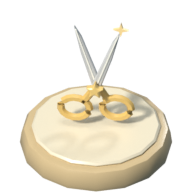
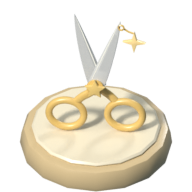
Refine region reward props: tide net, sunseed, star shears models and raw renders

Changed region(s): [[0.2188, 0.0625, 0.875, 0.7188]]

diff --git a/art-src/board-ui/c-popups/src/build_popups.py b/art-src/board-ui/c-popups/src/build_popups.py
@@ -390,100 +390,267 @@ def grow(ob,f,z0=0.19):
     ob.data.transform(Matrix.Translation((0,0,z0))@Matrix.Scale(f,4)@Matrix.Translation((0,0,-z0)))
 def tcoaster(n):
     return [finish(xform(cyl(0.5,0.48,0.16,16),(0,0,0.08)),n+'_d','rimL',0.04,2,40),finish(xform(cyl(0.42,0.42,0.03,16),(0,0,0.17)),n+'_t','tileL1',0.012,1,40)]
-def scallop(r=0.13,sw_='coral'):
-    # 小扇贝：扇形厚片 + 5 道放射棱 + 两只铰合耳
-    prof=[(0,0)]+[(r*math.cos(math.radians(a)),r*math.sin(math.radians(a))) for a in range(20,161,14)]
-    P=[finish(prism(prof,0.035),'sc',sw_,0.01,1)]
-    for a in range(35,150,28):
-        P.append(finish(tube([(0.02*math.cos(math.radians(a)),-0.02,0.02*math.sin(math.radians(a))),(r*0.92*math.cos(math.radians(a)),-0.02,r*0.92*math.sin(math.radians(a)))],0.008,4),'rb',sw_))
-    P.append(finish(xform(box(0.09,0.03,0.035),(0,0,0.0)),'ear',sw_,0.006))
-    return join(P,'scallop',30)
-def tool_tidenet():
-    # 潮汐网 v2：短柄小抄网。木圈口朝上微微前倾，网兜是真镂空的网眼（bmesh wireframe），往下垂成袋；
-    # 兜里一枚珊瑚色扇贝 + 一枚青色海螺从网口探出来；网圈上系一只红白浮漂；短木柄斜插在木托上。
-    P=tcoaster('tn'); R=0.25; cx,cz=-0.03,0.70
-    # 网兜：口在 z=0，往下垂，底部略偏前（重量往前坠）
-    prof=[(R,0.0),(R*0.97,-0.08),(R*0.86,-0.17),(R*0.66,-0.25),(R*0.40,-0.31),(R*0.12,-0.34)]
-    seg=12; bm=bmesh.new(); rings=[]
-    for i,(r,z) in enumerate(prof):
-        sag=-0.10*(i/(len(prof)-1))**1.5
-        rings.append([bm.verts.new((r*math.cos(2*math.pi*k/seg),r*math.sin(2*math.pi*k/seg)+sag,z)) for k in range(seg)])
+# ---- 地区道具 v3 通用小工具：样条、写进同一个 bmesh 的管子、参数曲面、沿方向摆放
+def cr(points,n=6,closed=False):
+    P=[Vector(p) for p in points]; m=len(P); out=[]
+    for i in (range(m) if closed else range(m-1)):
+        p1=P[i]; p2=P[(i+1)%m]
+        p0=P[(i-1)%m] if (closed or i>0) else p1*2-p2
+        p3=P[(i+2)%m] if (closed or i+2<m) else p2*2-p1
+        for s in range(n):
+            t=s/n; t2=t*t; t3=t2*t
+            out.append(0.5*((2*p1)+(p2-p0)*t+(2*p0-5*p1+4*p2-p3)*t2+(3*p1-p0-3*p2+p3)*t3))
+    if not closed: out.append(P[-1])
+    return out
+def tube_into(bm,points,radius,sides=6,closed=False,rfn=None,caps=True,flat=None):
+    pts=[Vector(p) for p in points]; n=len(pts); rings=[]
+    for i,p in enumerate(pts):
+        if closed: t=(pts[(i+1)%n]-pts[(i-1)%n]).normalized()
+        else: t=(pts[min(i+1,n-1)]-pts[max(i-1,0)]).normalized()
+        up=flat if flat is not None else (Vector((0,0,1)) if abs(t.z)<0.9 else Vector((1,0,0)))
+        a=t.cross(up).normalized(); b=t.cross(a).normalized()
+        rr=radius*(rfn(i/(n-1)) if rfn else 1)
+        rings.append([bm.verts.new(p+rr*(math.cos(2*math.pi*k/sides+math.pi/sides)*a+math.sin(2*math.pi*k/sides+math.pi/sides)*b)) for k in range(sides)])
+    for i in range(n if closed else n-1):
+        i2=(i+1)%n
+        for k in range(sides):
+            k2=(k+1)%sides; bm.faces.new((rings[i][k],rings[i][k2],rings[i2][k2],rings[i2][k]))
+    if not closed and caps: bm.faces.new(rings[0][::-1]); bm.faces.new(rings[-1])
+    return bm
+def surf(fn,nu,nv,wrap_v=False):
+    bm=bmesh.new(); G=[[bm.verts.new(fn(i/nu,j/nv)) for j in range(nv+1)] for i in range(nu+1)]
+    for i in range(nu):
+        for j in range(nv): bm.faces.new((G[i][j],G[i+1][j],G[i+1][j+1],G[i][j+1]))
+    bmesh.ops.recalc_face_normals(bm,faces=bm.faces); return bm
+def thicken(bm,th):
+    bmesh.ops.recalc_face_normals(bm,faces=bm.faces)
+    r=bmesh.ops.solidify(bm,geom=list(bm.faces),thickness=th); return bm
+def aim(bm,p,d,roll=0.0):
+    d=Vector(d).normalized(); q=Vector((0,0,1)).rotation_difference(d)
+    bmesh.ops.transform(bm,matrix=Matrix.Translation(p)@q.to_matrix().to_4x4(),verts=bm.verts); return bm
+def mx(ob,M): ob.data.transform(M); return ob
+def Rm(deg,ax): return Matrix.Rotation(math.radians(deg),4,ax)
+def Tm(*v): return Matrix.Translation(v)
+def lathe_n(prof,seg,sw_,bev=0.0,bseg=1,angle=35):
+    bm=bmesh.new(); rings=[]
+    for (r,z) in prof: rings.append([bm.verts.new((r*math.cos(2*math.pi*k/seg),r*math.sin(2*math.pi*k/seg),z)) for k in range(seg)])
     for i in range(len(rings)-1):
         for k in range(seg): k2=(k+1)%seg; bm.faces.new((rings[i][k],rings[i][k2],rings[i+1][k2],rings[i+1][k]))
-    bot=bm.verts.new((0,-0.05,-0.355))
-    for k in range(seg): bm.faces.new((rings[-1][k],rings[-1][(k+1)%seg],bot))
-    bmesh.ops.recalc_face_normals(bm,faces=bm.faces)
-    bmesh.ops.wireframe(bm,faces=list(bm.faces),thickness=0.016,use_replace=True,use_boundary=True,use_even_offset=True)
-    net=finish(bm,'net','cream',0.0)
-    hoop=finish(tube([(R*math.cos(math.radians(a)),R*math.sin(math.radians(a)),0.0) for a in range(0,361,20)],0.028,6,closed=True),'hoop','wood')
-    fl=[finish(xform(ico(0.055,2),(0,0,0),scale=(1,1,1.15)),'fl','red6'),finish(xform(cyl(0.057,0.057,0.03,10),(0,0,0.0)),'flb','plaster',0.0)]
-    for o_ in fl: o_.data.transform(Matrix.Translation((-R*0.70,-R*0.70,0.0)))
-    grp=join([net,hoop]+fl,'tmp_n',30)
-    # 网侧躺在木托上：网口朝前（朝镜头）略仰，网兜往后下方垂到木托上
-    hx,hz=-0.08,0.19+R*0.93
-    grp.data.transform(Matrix.Rotation(math.radians(74),4,'X')); grp.data.transform(Matrix.Rotation(math.radians(-42),4,'Z')); grp.data.transform(Matrix.Translation((hx,-0.06,hz)))
-    sc=scallop(0.12,'coral'); sc.data.transform(Matrix.Rotation(math.radians(-18),4,'X')); sc.data.transform(Matrix.Rotation(math.radians(10),4,'Y')); sc.data.transform(Matrix.Rotation(math.radians(-30),4,'Z')); sc.data.transform(Matrix.Translation((hx-0.01,0.02,hz-0.09)))
-    cone=lathe([(0.0,0.0),(0.05,0.02),(0.06,0.06),(0.045,0.11),(0.025,0.16),(0.0,0.20)],8,'teal2',0.0)
-    cone.data.transform(Matrix.Rotation(math.radians(-60),4,'Y')); cone.data.transform(Matrix.Translation((hx+0.05,0.07,hz-0.16)))
-    # 短木柄：从网圈右侧往右后方斜躺到木托上，末端一颗圆把手
-    p0=Vector((hx+R*0.70,-0.06-R*0.62,hz-0.06)); p1=Vector((0.42,-0.16,0.24))
-    hd=finish(tube([tuple(p0),tuple(p0.lerp(p1,0.5)+Vector((0,0,0.01))),tuple(p1)],0.032,6),'handle','darkwood')
-    cap=finish(xform(ico(0.048,1),tuple(p1+Vector((0.02,0.015,0.0)))),'knob','acornl')
-    grp=join([grp,sc,cone],'tmp_n2',30)
-    return join(P+[grp,hd,cap],'tool_tidenet',35)
-def tool_sunseed():
-    # 日光籽 v2：一颗饱满的葵花籽（尖头泪滴形，深浅相间的纵纹），顶上冒出一根弯芽和两片子叶；
-    # 背后立一枚小太阳（金色圆盘 + 一圈三角光芒），一眼读成「太阳 + 种子」。
-    P=tcoaster('ss')
-    # 背后的太阳
-    sun=[finish(xform(cyl(0.21,0.21,0.04,16),(0,0,0),[('X',90)]),'disc','sun',0.012,1)]
-    for k in range(12):
-        a=math.radians(30*k); ry=prism([(-0.045,0.0),(0.045,0.0),(0.0,0.11)],0.03); xform(ry,(0,0,0),[('Y',-math.degrees(a)+90)]); xform(ry,(0.25*math.cos(a),0,0.25*math.sin(a)))
-        sun.append(finish(ry,'ray','gold',0.004))
-    sg=join(sun,'tmp_sun',30); sg.data.transform(Matrix.Translation((0.0,0.16,0.70)))
-    # 种子：泪滴 lathe，压扁成杏仁形
-    prof=[(0.0,0.0),(0.04,0.04),(0.09,0.12),(0.13,0.22),(0.14,0.30),(0.12,0.36),(0.07,0.395),(0.0,0.41)]
-    seed=lathe(prof,10,'ink',0.0); seed.data.transform(Matrix.Scale(1.0,4)); seed.data.transform(Matrix.Diagonal((1.0,0.62,1.0,1.0)))
-    st=[]
-    for xo in (-0.07,0.0,0.07):
-        pts=[]
-        for t in range(0,9):
-            z=0.05+0.33*t/8
-            for (r0,z0),(r1,z1) in zip(prof,prof[1:]):
-                if z0<=z<=z1: rr=(r0+(r1-r0)*(z-z0)/(z1-z0))*1.0; break
-            x=xo*(rr/0.14); y=-0.62*math.sqrt(max(0,rr*rr-x*x))-0.006
-            pts.append((x,y,z))
-        st.append(finish(tube(pts,0.011,4),'stripe','cream'))
-    sd=join([seed]+st,'tmp_seed',30); sd.data.transform(Matrix.Rotation(math.radians(-12),4,'Z')); sd.data.transform(Matrix.Scale(1.18,4)); sd.data.transform(Matrix.Rotation(math.radians(8),4,'Y')); sd.data.transform(Matrix.Translation((0.0,-0.02,0.19)))
-    peg=finish(xform(cyl(0.20,0.24,0.06,12),(0,-0.0,0.21),scale=(1,0.8,1)),'soil','floor',0.02,1)
-    # 芽 + 子叶
-    tx_,tz_=0.48*math.sin(math.radians(8)),0.19+0.48*math.cos(math.radians(8))
-    sp=finish(tube([(tx_,-0.03,tz_-0.02),(tx_-0.01,-0.04,tz_+0.08),(tx_+0.03,-0.05,tz_+0.15),(tx_+0.08,-0.05,tz_+0.17)],0.018,5),'sprout','leafl')
-    lv=[]
-    for sx,ang in ((-1,25),(1,-15)):
-        lf=prism([(0,0),(sx*0.06,0.035),(sx*0.14,0.03),(sx*0.17,0.0),(sx*0.11,-0.025),(sx*0.05,-0.02)] if sx>0 else [(0,0),(sx*0.05,-0.02),(sx*0.11,-0.025),(sx*0.17,0.0),(sx*0.14,0.03),(sx*0.06,0.035)],0.022)
-        xform(lf,(0,0,0),[('Y',ang)]); xform(lf,(tx_+0.07,-0.05,tz_+0.17)); lv.append(finish(lf,'leaf','leaf',0.006,1))
-    return join(P+[sg,sd,peg,sp]+lv,'tool_sunseed',35)
-def tool_starshears():
-    # 星剪 v2：一把正面摆放、张开成 X 的剪刀：两片长刃（浅灰金属 + 刃口亮线）向上张开，
-    # 过轴心延伸到下面两只大金色指环；轴心是一颗金星螺丝，一片刃尖上挂一颗小星光。立在木托的短木桩上。
-    P=tcoaster('sh'); px,pz=0.0,0.50; S=[]
+    bmesh.ops.remove_doubles(bm,verts=bm.verts,dist=1e-5); bmesh.ops.recalc_face_normals(bm,faces=bm.faces)
+    return finish(bm,'lathe',sw_,bev,bseg,angle)
+def rest(parts,z):
+    lo=min((o.matrix_world@v.co).z for o in parts for v in o.data.vertices)
+    for o in parts: o.data.transform(Matrix.Translation((0,0,z-lo)))
+def scallop(r=0.12,sw_='coral',rib='orange'):
+    # 扇贝 v3：圆弧扇形壳（约 150°），6 道放射棱在壳面上真有起伏，壳缘是波浪边，壳体有厚度；
+    # 铰合线两侧各一只三角小耳，棱上一条浅色细线，铰点深色
+    nr=7; nv=42; a0,a1=2,178
+    def f(u,v):
+        ridge=0.5+0.5*math.cos(2*math.pi*nr*v); a=math.radians(a0+(a1-a0)*v)
+        rho=r*u*(1-0.075*(1-ridge)*u**3)
+        y=-(0.052*math.sin(0.5*math.pi*u)+0.009*ridge*u)+0.030*(abs(v-0.5)*2)**2*u
+        return (rho*math.cos(a),y,rho*math.sin(a))
+    P=[finish(thicken(surf(f,6,nv),0.020),'sc',sw_,0.003,1,40)]
+    cb=bmesh.new(); nu=6
+    for i in range(nu):
+        for j in range(nv):
+            if i<1: continue
+            rm=sum(0.5+0.5*math.cos(2*math.pi*nr*(j+dj)/nv) for dj in (0,1))/2
+            if rm<0.62: continue
+            q=[cb.verts.new((lambda p:(p[0],p[1]-0.0014,p[2]))(f((i+di)/nu,(j+dj)/nv))) for di,dj in ((0,0),(1,0),(1,1),(0,1))]
+            cb.faces.new(q)
+    bmesh.ops.recalc_face_normals(cb,faces=cb.faces); bmesh.ops.remove_doubles(cb,verts=cb.verts,dist=1e-6)
+    P.append(finish(cb,'crest',rib,0.0))
     for sx in (-1,1):
-        a=math.radians(19)*sx; dx,dz=math.sin(a),math.cos(a)
-        L=0.46; w0=0.06
-        bl=prism([(-w0*0.5,0.0),(w0*0.5,0.0),(w0*0.42,L*0.55),(0.006,L),(-w0*0.25,L*0.8)] if sx>0 else [(-w0*0.5,0.0),(w0*0.5,0.0),(w0*0.25,L*0.8),(-0.006,L),(-w0*0.42,L*0.55)],0.03)
-        xform(bl,(0,0,0),[('Y',math.degrees(a))]); xform(bl,(px,-0.02*sx,pz)); S.append(finish(bl,'blade','grey',0.006,1))
-        edge=finish(tube([(px+dx*0.04-sx*0.0,-0.02*sx-0.017,pz+dz*0.04),(px+dx*(L*0.95),-0.02*sx-0.017,pz+dz*(L*0.95))],0.006,4),'edge','white')
-        S.append(edge)
-        # 柄 + 指环（在轴心另一侧，同一直线）
-        hx,hz=px-dx*0.18-sx*0.075,pz-dz*0.18
-        S.append(finish(tube([(px,-0.02*sx,pz),(px-dx*0.08-sx*0.03,-0.02*sx,pz-dz*0.09),(hx+sx*0.05,-0.02*sx,hz+0.05)],0.026,6),'shank','gold2'))
-        ring=[(hx+0.095*math.cos(math.radians(t)),-0.02*sx,hz+0.075*math.sin(math.radians(t))) for t in range(0,361,24)]
-        S.append(finish(tube(ring,0.026,6,closed=True),'ring','gold2'))
-    st=prism(star_profile(5,0.065,0.028),0.05); S.append(finish(xform(st,(px,-0.06,pz)),'pivot','gold',0.008,1))
-    sp=prism(star_profile(4,0.05,0.016),0.02); S.append(finish(xform(sp,(px+math.sin(math.radians(19))*0.50,-0.05,pz+math.cos(math.radians(19))*0.50)),'spark','lamp',0.0))
-    sh=join(S,'tmp_s',30); piv=Vector((0,0,0.38))
-    sh.data.transform(Matrix.Translation(piv)@Matrix.Rotation(math.radians(-8),4,'Z')@Matrix.Rotation(math.radians(-6),4,'X')@Matrix.Translation(-piv))
+        P.append(finish(xform(prism([(0,0.0),(sx*0.105,0.010),(sx*0.098,0.036),(sx*0.012,0.040)],0.018),(0,-0.008,0.0)),'ear',sw_,0.004,1))
+    P.append(finish(xform(box(0.026,0.016,0.020),(0,-0.030,0.012)),'hinge','darkwood',0.004))
+    return join(P,'scallop',35)
+def conch(sc=1.0):
+    # 海螺 v3：塔形螺壳（尖顶朝上，圈层一节一节鼓出来）+ 一条贴着壳面盘绕的浅色螺棱，壳口朝外，奶白厚唇 + 暖橙内壁
+    def env(s): return 0.092*(s**0.75)*(1-0.26*max(0.0,(s-0.78)/0.22)**1.6)
+    def rr(s,k=0.0): return env(s)*(1+0.13*s*math.cos(2*math.pi*2.6*s))+k
+    ns=34; prof=[(rr(i/ns),0.17*(1-i/ns)) for i in range(ns+1)]
+    body=lathe_n(prof,18,'teal2',0.0)
+    sp=[]; 
+    for i in range(0,41):
+        s=0.10+0.88*i/40; ang=2*math.pi*2.6*s+0.5; r_=rr(s,0.0035)
+        sp.append((r_*math.cos(ang),r_*math.sin(ang),0.17*(1-s)))
+    rib=finish(tube_into(bmesh.new(),sp,0.0095,5,rfn=lambda t:0.45+0.55*math.sin(math.pi*min(1,t*1.4+0.1))**0.6),'sprib','teal3')
+    R0=rr(1.0); mouth=finish(tube_into(bmesh.new(),[(R0*0.98*math.cos(a),R0*0.98*math.sin(a),0.0) for a in [2*math.pi*k/18 for k in range(18)]],0.011,6,closed=True),'lip','plaster')
+    inner=finish(lathe_bm([(0.0,-0.030),(R0*0.55,-0.020),(R0*0.92,0.0),(0.0,0.0)],18),'mouth','orange',0.0)
+    ob=join([body,rib,mouth,inner],'conch_j',35); ob.data.transform(Matrix.Scale(sc,4)); return ob
+def lathe_bm(prof,seg):
+    bm=bmesh.new(); rings=[]
+    for (r,z) in prof: rings.append([bm.verts.new((r*math.cos(2*math.pi*k/seg),r*math.sin(2*math.pi*k/seg),z)) for k in range(seg)])
+    for i in range(len(rings)-1):
+        for k in range(seg): k2=(k+1)%seg; bm.faces.new((rings[i][k],rings[i][k2],rings[i+1][k2],rings[i+1][k]))
+    bmesh.ops.remove_doubles(bm,verts=bm.verts,dist=1e-5); bmesh.ops.recalc_face_normals(bm,faces=bm.faces); return bm
+def floatball(c,r=0.058):
+    # 浮漂 v3：圆滚的红白浮球（上红下白，16 段 × 8 圈），顶上白色小颈 + 深木小环
+    def half(a0,a1,sw_):
+        prof=[(r*math.sin(math.radians(a)),r*1.18*math.cos(math.radians(a))) for a in [a0+(a1-a0)*i/8 for i in range(9)]]
+        return finish(lathe_bm(prof,16),'fb',sw_,0.0)
+    top=half(0,90,'red'); bot=half(90,180,'plaster')
+    neck=finish(lathe_bm([(0.0,r*1.10),(0.019,r*1.10),(0.021,r*1.30),(0.014,r*1.42),(0.0,r*1.42)],12),'neck','plaster',0.0)
+    eye=finish(tube_into(bmesh.new(),[(0.016*math.cos(a),0.0,r*1.46+0.016*math.sin(a)) for a in [2*math.pi*k/12 for k in range(12)]],0.0045,5,closed=True),'eye','darkwood')
+    pin=finish(lathe_bm([(0.0,-r*1.14),(0.012,-r*1.14),(0.015,-r*1.22),(0.0,-r*1.22)],10),'pin','darkwood',0.0)
+    ob=join([top,bot,neck,eye,pin],'floatball',35); ob.data.transform(Matrix.Translation(c)); return ob
+def tool_tidenet():
+    # 潮汐网 v3：造型不变（短柄小抄网侧躺在木托上，网口朝镜头，网兜往右后方垂下），全部加细：
+    # 网圈改成 40 段圆环；网兜是 18 股×2 向的菱形网眼（细线 + 交点小结），收口处一个绳结，网兜压在木托上不穿底；
+    # 兜里一枚有放射棱的扇贝和一枚螺旋海螺；浮漂是红白圆球，细绳系在网圈上；柄带铁箍，末端圆把手，倒角。
+    FL=0.188; P=tcoaster('tn'); R=0.285; HR=0.023; hx=-0.08; hz=FL+R*0.961+HR+0.002
+    M=Matrix.Translation((hx,-0.06,hz))@Rm(-42,'Z')@Rm(74,'X')
+    N=18; D=0.40; tw=1.40; ns=18
+    def bagpt(t,phi):
+        r=R*max(0.0,1-t**2.3)**0.55; p=M@Vector((r*math.cos(phi),r*math.sin(phi)-0.10*t**1.5,-D*t)); p.z=max(p.z,FL+0.005); return p
+    nb=bmesh.new()
+    for k in range(N):
+        for sg in (1,-1):
+            tube_into(nb,cr([bagpt(i/ns,2*math.pi*k/N+sg*tw*i/ns) for i in range(ns+1)],2),0.0042,4,caps=False)
+    net=finish(nb,'net','acornl',0.0)
+    kb=bmesh.new(); rows=int(N*tw/math.pi)
+    for m in range(1,rows+1):
+        t=math.pi*m/(N*tw)
+        for k in range(N):
+            bmesh.ops.create_icosphere(kb,subdivisions=1,radius=0.0068,matrix=Matrix.Translation(bagpt(t,2*math.pi*k/N+tw*t)))
+    knots=finish(kb,'knots','acornl',0.0)
+    ap=bagpt(1.0,0.0); apx=finish(xform(ico(0.022,2),tuple(ap),scale=(1,1,1.3)),'apex','darkwood',0.0)
+    hoop=finish(tube_into(bmesh.new(),[(R*math.cos(a),R*math.sin(a),0.0) for a in [2*math.pi*k/40 for k in range(40)]],HR,10,closed=True),'hoop','wood'); mx(hoop,M)
+    # 兜里的扇贝（斜靠着，铰口朝下）和海螺（躺着，壳口朝镜头），都落在木托面上
+    sc=scallop(0.15,'coral'); mx(sc,Tm(hx-0.085,0.035,0.0)@Rm(-14,'Z')@Rm(8,'Y')@Rm(-52,'X')); rest([sc],FL+0.002)
+    cn=conch(1.25); mx(cn,Tm(hx+0.115,-0.01,0.0)@Rm(14,'Z')@Rm(80,'Y')@Rm(34,'Z')); rest([cn],FL+0.006)
+    # 浮漂：系在网圈左下，立在木托上，细绳拴在圈上
+    a_f=math.radians(212); hp=M@Vector((R*math.cos(a_f),R*math.sin(a_f),0.0))
+    fc=Vector((hp.x-0.075,hp.y-0.035,FL+0.062*1.22)); fb=floatball(tuple(fc),0.062)
+    eye=fc+Vector((0,0,0.062*1.46))
+    cord=finish(tube_into(bmesh.new(),cr([tuple(eye+Vector((0,0,0.012))),tuple(eye+Vector((0.02,0.0,0.045))),tuple(hp.lerp(eye,0.3)+Vector((0,0,0.02))),tuple(hp)],4),0.0045,5),'cord','darkwood')
+    knot=finish(xform(ico(0.017,1),tuple(hp)),'cknot','darkwood')
+    # 短柄：从网圈右前下方出来，铁箍 + 深木柄身（微弯，贴着木托）+ 圆把手
+    ah=math.radians(-20); p0=M@Vector((R*math.cos(ah),R*math.sin(ah),0.0)); p3=Vector((0.395,-0.17,FL+0.05))
+    p1=p0+(p0-Vector((hx,-0.06,hz))).normalized()*0.07; p2=Vector((0.28,-0.21,FL+0.03))
+    hp_=cr([tuple(p0),tuple(p1),tuple(p2),tuple(p3)],8)
+    hd=finish(tube_into(bmesh.new(),hp_,0.027,10,rfn=lambda t:0.92+0.12*t),'handle','darkwood',0.006,2)
+    d0=(Vector(hp_[2])-p0).normalized(); fer=finish(aim(lathe_bm([(0.0,-0.02),(0.036,-0.02),(0.036,0.03),(0.0,0.03)],12),p0+d0*0.02,d0),'ferrule','wood',0.006,2)
+    d1=(p3-Vector(hp_[-3])).normalized(); grip=finish(xform(uvs(0.05,14,9),tuple(p3+d1*0.022)),'grip','acornl')
+    return join(P+[net,knots,apx,hoop,sc,cn,fb,cord,knot,hd,fer,grip],'tool_tidenet',35)
+def cotyledon(L=0.17,W=0.052,sw_='leaf',rib='leafl'):
+    # 子叶 v3：卵圆叶片（尖头），中脉处凹成一道浅沟、叶缘微微上翻、叶尖略往上卷；中脉上贴一根浅色细脉；叶片有厚度
+    def f(u,v):
+        w=(v-0.5)*2; wd=W*math.sin(math.pi*u**0.72)**0.85
+        return (L*u,w*wd,0.011*w*w*(0.4+u)+0.030*u**2.2)
+    P=[finish(thicken(surf(f,10,6),0.009),'lf',sw_,0.002,1,40)]
+    P.append(finish(tube_into(bmesh.new(),[(L*u,0,0.0035+0.030*u**2.2) for u in (0.0,0.15,0.3,0.45,0.6,0.75,0.88)],0.0048,4,rfn=lambda t:1.0-0.55*t),'mid',rib))
+    return join(P,'cotyledon',35)
+def mound():
+    # 小土堆：圆顶，顶上一圈浅浅的环形凹口把籽尖围住，边缘略不规则；两粒小石子
+    rnd=random.Random(11)
+    prof=[(0.0,0.292),(0.045,0.296),(0.085,0.300),(0.125,0.286),(0.175,0.256),(0.225,0.218),(0.262,0.190),(0.270,0.184),(0.0,0.180)]
+    bm=lathe_bm([(r*0.84,z) for r,z in prof],20)
+    for v in bm.verts:
+        if v.co.z>0.19: a=math.atan2(v.co.y,v.co.x); k=1+0.035*math.sin(3*a+0.7)+0.02*math.sin(5*a); v.co.x*=k; v.co.y*=k; v.co.z+=0.008*math.sin(4*a+1.1)*min(1,math.hypot(v.co.x,v.co.y)/0.2)
+    me=finish(bm,'mound','floor3',0.0)
+    pb=[finish(xform(ico(0.026,1),(0.14,-0.11,0.205),scale=(1,0.9,0.6)),'pb','tan',0.0),finish(xform(ico(0.017,1),(-0.16,-0.09,0.200),scale=(1,1,0.65)),'pb','w5a',0.0)]
+    return join([me]+pb,'mound_j',40)
+def tool_sunseed():
+    # 日光籽 v3：造型不变（深色葵花籽尖头朝下插在小土堆里，顶上弯芽 + 两片子叶，背后一枚金色小太阳），加细：
+    # 籽是 24 段泪滴旋转体（压扁成杏仁），白纹沿壳面按经线走、两头收细；子叶带中脉、略上翻；
+    # 太阳是圆润的厚圆盘 + 金边 + 16 根等长细光芒，立在一根小木桩上。
+    FL=0.188; P=tcoaster('ss')
+    # --- 太阳
+    sun=[finish(xform(lathe_bm([(0.0,-0.020),(0.212,-0.020),(0.226,-0.012),(0.230,0.0),(0.226,0.012),(0.210,0.024),(0.180,0.030),(0.0,0.030)],40),(0,0,0),[('X',90)]),'disc','sun',0.0),
+         finish(xform(tube_into(bmesh.new(),[(0.150*math.cos(a),-0.029,0.150*math.sin(a)) for a in [2*math.pi*k/48 for k in range(48)]],0.0065,6,closed=True,flat=Vector((0,1,0))),(0,0,0)),'ring2','gold'),
+         finish(xform(tube_into(bmesh.new(),[(0.222*math.cos(a),0.0,0.222*math.sin(a)) for a in [2*math.pi*k/48 for k in range(48)]],0.011,6,closed=True,flat=Vector((0,1,0))),(0,0,0)),'rim','gold')]
+    for k in range(16):
+        a=math.radians(22.5*k); ry=prism([(-0.028,0.0),(0.028,0.0),(0.0,0.118)],0.024); xform(ry,(0,0,0),[('Y',90-math.degrees(a))]); xform(ry,(0.222*math.cos(a),0.0,0.222*math.sin(a)))
+        sun.append(finish(ry,'ray','gold',0.005,1))
+    sg=join(sun,'tmp_sun',30); sg.data.transform(Matrix.Translation((0.0,0.16,0.70)))
+    stake=finish(xform(cyl(0.013,0.016,0.36,8),(0.0,0.16,0.36)),'stake','darkwood',0.004)
+    # --- 籽：泪滴形旋转体（尖头朝下），压扁；白纹沿经线
+    Hh=0.41; Rmax=0.122
+    def fr(s): return (s**1.05)*((1-s)**0.55)/0.3566*Rmax
+    prof=[(fr(s),Hh*s) for s in [i/26 for i in range(27)]]
+    prof=[(max(r,0.0),z) for r,z in prof]
+    prof[0]=(0.0,0.0); prof[-1]=(0.0,Hh)
+    seed=lathe_n(prof,24,'ink',0.0); seed.data.transform(Matrix.Diagonal((1.0,0.62,1.0,1.0)))
+    st=[]
+    for dl in (-42,-21,0,21,42):
+        d_=math.radians(dl); pts=[]
+        for i in range(25):
+            s=0.17+0.72*i/24; r_=fr(s)+0.0025
+            pts.append((r_*math.sin(d_),-0.62*r_*math.cos(d_),Hh*s))
+        st.append(finish(tube_into(bmesh.new(),pts,0.0085,4,rfn=lambda t:max(0.04,math.sin(math.pi*t)**0.7)),'stripe','white'))
+    sd=join([seed]+st,'tmp_seed',35)
+    Ms=Matrix.Translation((0.0,-0.02,0.19))@Rm(8,'Y')@Matrix.Scale(1.18,4)@Rm(-12,'Z'); sd.data.transform(Ms)
+    top=Ms@Vector((0,0,Hh))
+    # --- 芽 + 子叶
+    tip=Vector((top.x+0.045,top.y-0.02,top.z+0.205))
+    sp=finish(tube_into(bmesh.new(),cr([(top.x,top.y,top.z-0.025),(top.x-0.004,top.y-0.008,top.z+0.045),(top.x+0.012,top.y-0.016,top.z+0.125),tuple(tip)],5),0.017,8,rfn=lambda t:1.0-0.35*t),'sprout','leafl')
+    bud=finish(xform(ico(0.021,1),tuple(tip)),'bud','leafl',0.0)
+    lvR=cotyledon(); mx(lvR,Tm(*tip)@Rm(-8,'Z')@Rm(-18,'Y')@Rm(-6,'X'))
+    lvL=cotyledon(0.16); mx(lvL,Tm(*tip)@Rm(8,'Z')@Rm(24,'Y')@Rm(180,'Z')@Rm(6,'X'))
+    return join(P+[sg,stake,sd,mound(),sp,bud,lvR,lvL],'tool_sunseed',35)
+def ftube(path,y0,rw,rd,sides=12,rfn=None):
+    # 扁管：沿 XZ 平面里的路径走，截面是椭圆（面内半宽 rw、厚度方向半厚 rd），用来做和刃同厚的剪柄
+    bm=bmesh.new(); pts=[Vector(p) for p in path]; n=len(pts); rings=[]
+    for i,p in enumerate(pts):
+        t=(pts[min(i+1,n-1)]-pts[max(i-1,0)]).normalized(); nn=Vector((-t.z,0,t.x)); k_=rfn(i/(n-1)) if rfn else 1.0
+        rings.append([bm.verts.new(p+Vector((0,y0,0))+rw*k_*math.cos(2*math.pi*k/sides)*nn+rd*math.sin(2*math.pi*k/sides)*Vector((0,1,0))) for k in range(sides)])
+    for i in range(n-1):
+        for k in range(sides): k2=(k+1)%sides; bm.faces.new((rings[i][k],rings[i][k2],rings[i+1][k2],rings[i+1][k]))
+    bm.faces.new(rings[0][::-1]); bm.faces.new(rings[-1]); bmesh.ops.recalc_face_normals(bm,faces=bm.faces); return bm
+def shear_blade(L,sx,z0=-0.03):
+    # 剪刀刃 v3：刃背厚、往刃口一侧磨出斜面（刃口只剩 0.004 厚），两侧都有斜面；整片刃向刃尖收窄、收薄；
+    # 返回 (刃体, 刃口亮线)：亮线是贴在正面斜面上的细条，长度跟着斜面走
+    def w(z): return 0.094*(1-(max(z,0.0)/L)**1.6)**0.85+0.0
+    def c(z): return -0.016*(max(z,0.0)/L)**2
+    def T(z): return 0.036*(1-0.80*(max(z,0.0)/L)**2.2)
+    zs=[z0]+[L*(i/22)**0.9 for i in range(0,23)]
+    bm=bmesh.new(); rings=[]
+    for z in zs:
+        xs=c(z)+w(z)/2; xe=c(z)-w(z)/2; xm=xe+0.25*(xs-xe); th=T(z)/2; te=min(0.0022,th*0.5)
+        sec=[(xs,-th),(xs,th),(xm,th),(xe,te),(xe,-te),(xm,-th)]
+        rings.append([bm.verts.new((sx*x,y,z)) for x,y in sec])
+    for i in range(len(rings)-1):
+        for k in range(6): k2=(k+1)%6; bm.faces.new((rings[i][k],rings[i][k2],rings[i+1][k2],rings[i+1][k]))
+    bm.faces.new(rings[0][::-1]); bm.faces.new(rings[-1])
+    bmesh.ops.remove_doubles(bm,verts=bm.verts,dist=1e-6); bmesh.ops.recalc_face_normals(bm,faces=bm.faces)
+    body=finish(bm,'blade','grey',0.0022,1,40)
+    pts=[]
+    for i in range(0,21):
+        z=0.07*L+0.88*L*i/20; xs=c(z)+w(z)/2; xe=c(z)-w(z)/2; xm=xe+0.25*(xs-xe); th=T(z)/2; te=min(0.0022,th*0.5)
+        pts.append((sx*(xe+xm)/2,-(te+th)/2-0.0006,z))
+    line=finish(tube_into(bmesh.new(),pts,0.0046,4,rfn=lambda t:max(0.12,math.sin(math.pi*min(1.0,t*1.0+0.02))**0.45)),'edge','white')
+    return body,line
+def tool_starshears():
+    # 星剪 v3：造型不变（张开成 X 的两片长刃，两只往外撇的大金指环，轴心金星螺丝，刃尖一颗小星光），加细：
+    # 刃是有厚度的楔形（刃背厚、刃口磨出斜面、向尖收窄），刃口亮线贴在斜面上；两片刃和扁剪柄都只有 0.036 厚，交叉处不穿插；
+    # 指环是 40 段圆环（管截面 14 边），立在木托上；金星螺丝坐在垫圈上、垫圈压在刃面上；星光用金环 + 细链挂在右刃尖外侧。
+    FL=0.1835; P=tcoaster('sh'); pz=0.50; A=math.radians(19); S=[]
+    for sx in (-1,1):
+        y0=-0.0185*sx
+        body,line=shear_blade(0.46,sx)
+        for o_ in (body,line): mx(o_,Tm(0,y0,pz)@Rm(math.degrees(A)*sx,'Y'))
+        S+= [body,line]
+        cxr=-sx*0.165; cz=0.297; rx,rz=0.100,0.088
+        K=(cxr+sx*rx*math.cos(math.radians(62)),cz+rz*math.sin(math.radians(62)))
+        path=cr([(0,0,pz),(-sx*0.030,0,pz-0.048),(-sx*0.075,0,0.418),(K[0],0,K[1])],6)
+        S.append(finish(ftube(path,y0,0.027,0.016,12,rfn=lambda t:1.0-0.12*t),'shank','gold2',0.004,2))
+        ring=[(cxr+rx*math.cos(t),y0,cz+rz*math.sin(t)) for t in [2*math.pi*k/40 for k in range(40)]]
+        S.append(finish(tube_into(bmesh.new(),ring,0.021,14,closed=True,flat=Vector((0,1,0))),'ring','gold2'))
+    S.append(finish(xform(cyl(0.016,0.016,0.11,12),(0,0,pz),[('X',90)]),'rivet','gold2',0.003))
+    S.append(finish(xform(cyl(0.050,0.050,0.014,24),(0,-0.0435,pz),[('X',90)]),'washer','gold2',0.004,2))
+    S.append(finish(xform(prism(star_profile(5,0.062,0.030),0.022),(0,-0.0615,pz)),'pivot','gold',0.005,2))
+    # 右刃尖的小星光：金环挂在刃尖内侧小孔位置，细链往右下垂到星
+    ex=math.sin(A)*0.43; ez=pz+math.cos(A)*0.43
+    S.append(finish(tube_into(bmesh.new(),[(ex+0.016*math.cos(t),-0.032,ez+0.016*math.sin(t)) for t in [2*math.pi*k/14 for k in range(14)]],0.0048,5,closed=True),'eye','gold2'))
+    sp_c=(ex+0.075,-0.0185-0.006*0,ez-0.085)
+    chain=cr([(ex+0.012,-0.0185,ez-0.012),(ex+0.040,-0.0185,ez-0.030),(sp_c[0]-0.004,-0.0185,sp_c[2]+0.045)],4)
+    S.append(finish(tube_into(bmesh.new(),chain,0.0048,5),'chain','gold2'))
+    S.append(finish(xform(prism(star_profile(4,0.068,0.020),0.024),(sp_c[0],-0.0185,sp_c[2]-0.012)),'spark','lamp',0.004,2))
+    sh=join(S,'tmp_s',35); piv=Vector((0,0,0.38))
+    sh.data.transform(Matrix.Translation(piv)@Rm(-8,'Z')@Rm(-6,'X')@Matrix.Translation(-piv))
+    sh.data.transform(Matrix.Scale(1.15,4)); sh.data.transform(Tm(0,-0.04,0)); rest([sh],FL)
     return join(P+[sh],'tool_starshears',35)
 for f in (tool_tidenet,tool_sunseed,tool_starshears): reg(focus(f()),'tool')
 
